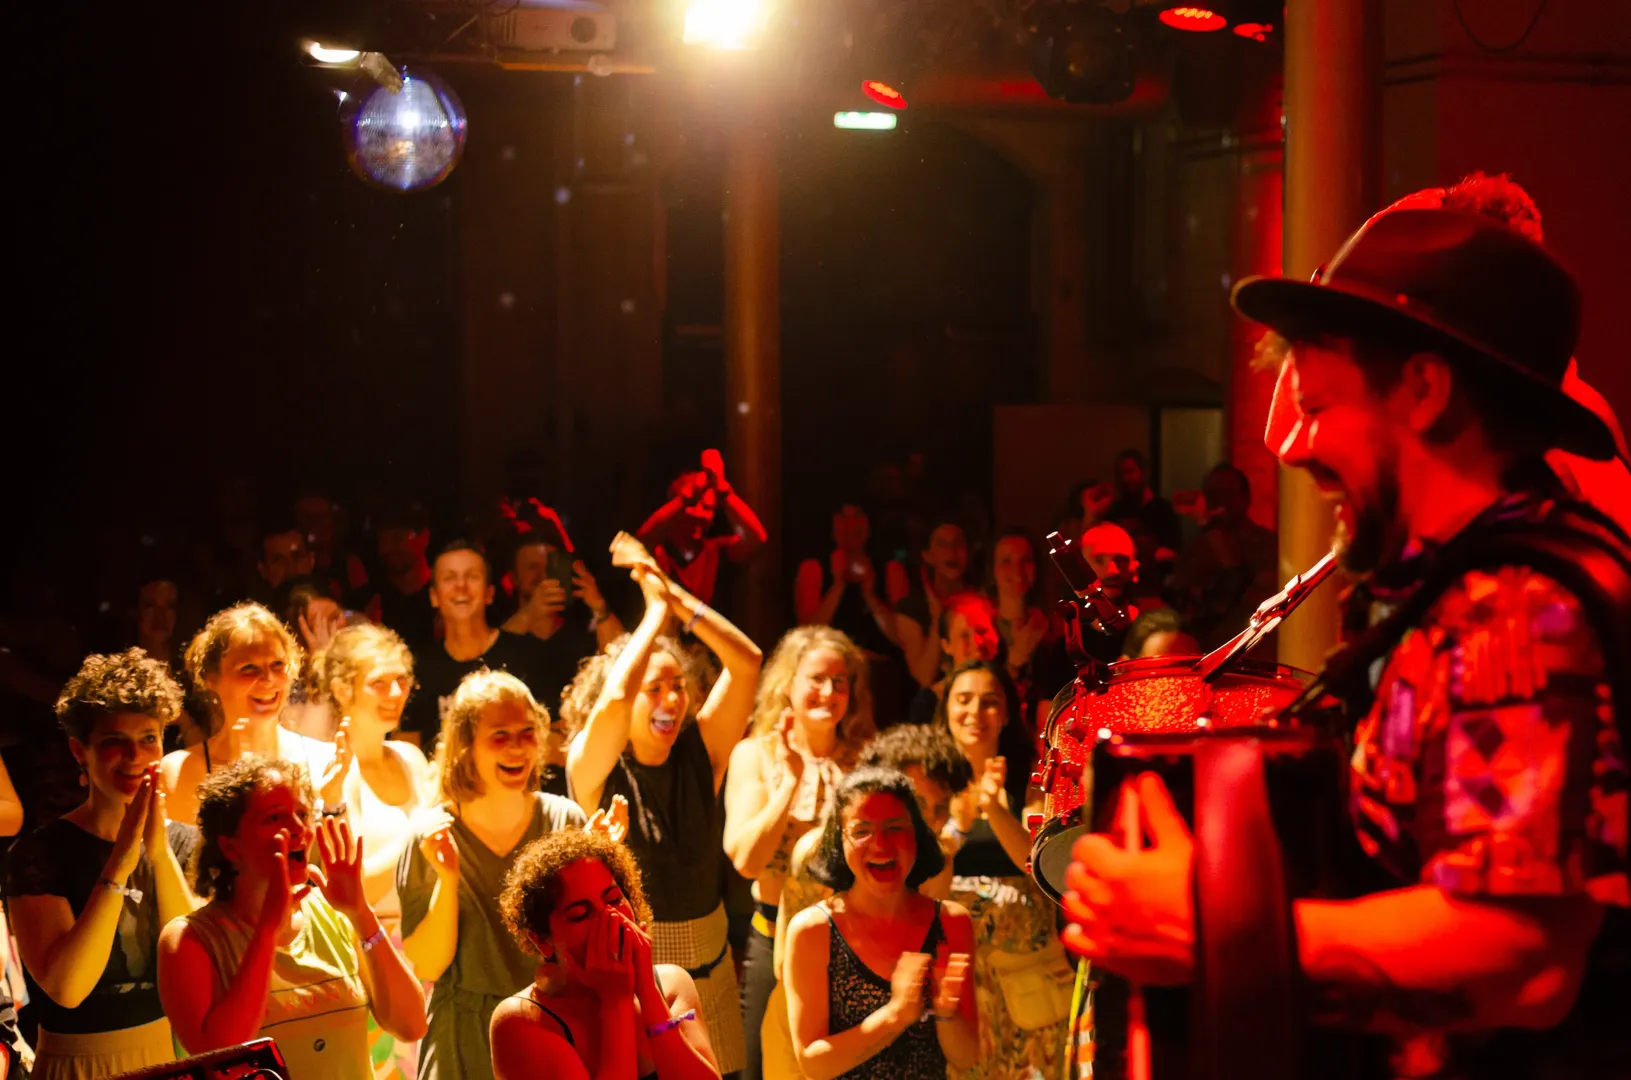
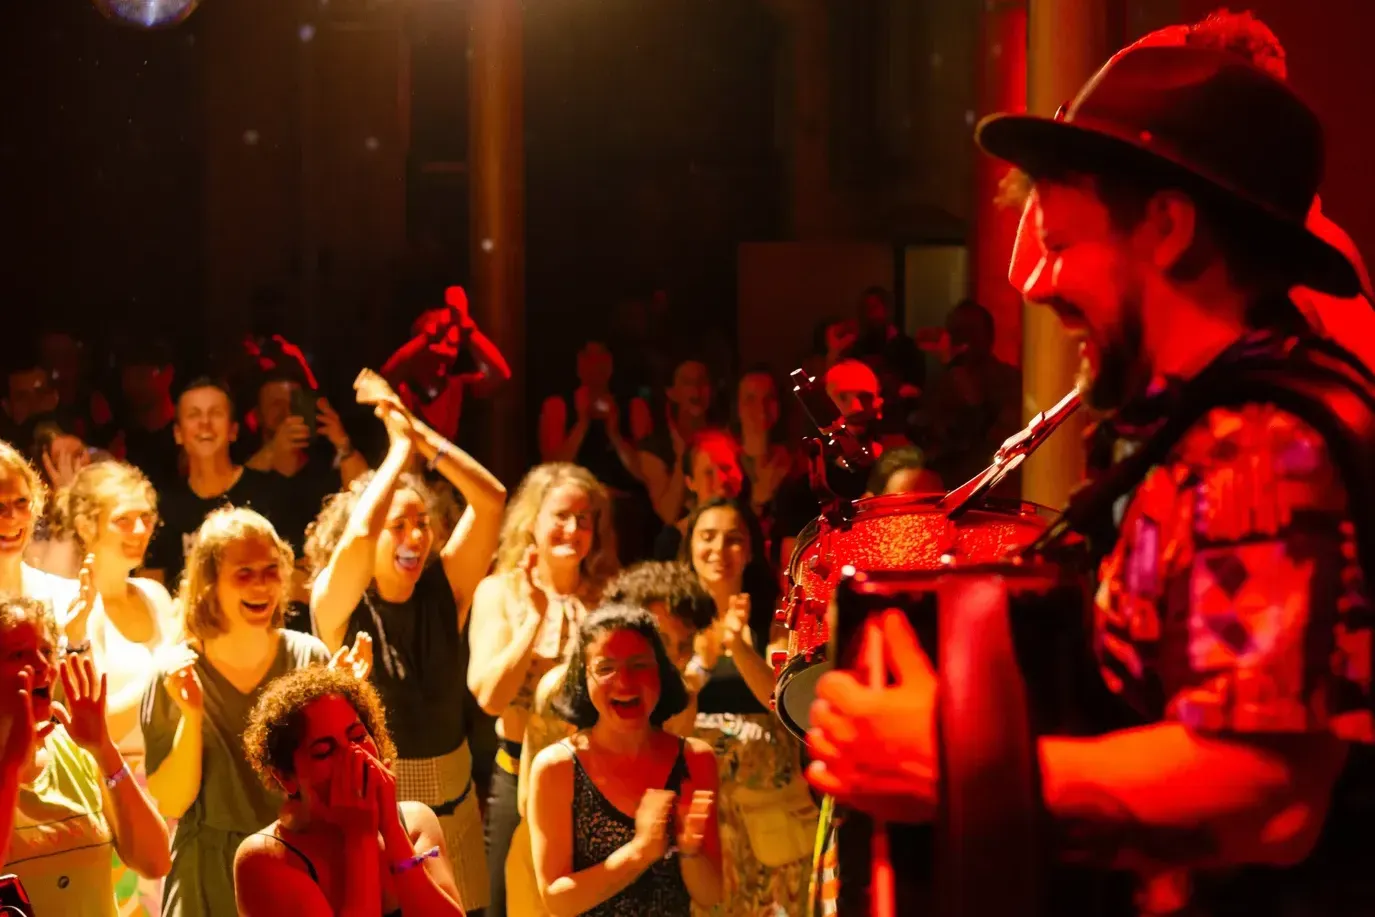
feat: updated images

diff --git a/index.html b/index.html
@@ -233,7 +233,7 @@
 		</div>
 	</div>
 
-	<div id="gtco-counter" class="gtco-bg gtco-cover gtco-counter" style="background-image:url(images/DSC_0275.webp);">
+	<div id="gtco-counter" class="gtco-bg gtco-cover gtco-counter" style="background-image:url(images/DSC_0135.webp);">
 		<div class="overlay"></div>
 		<div class="gtco-container">
 			<div class="row">
